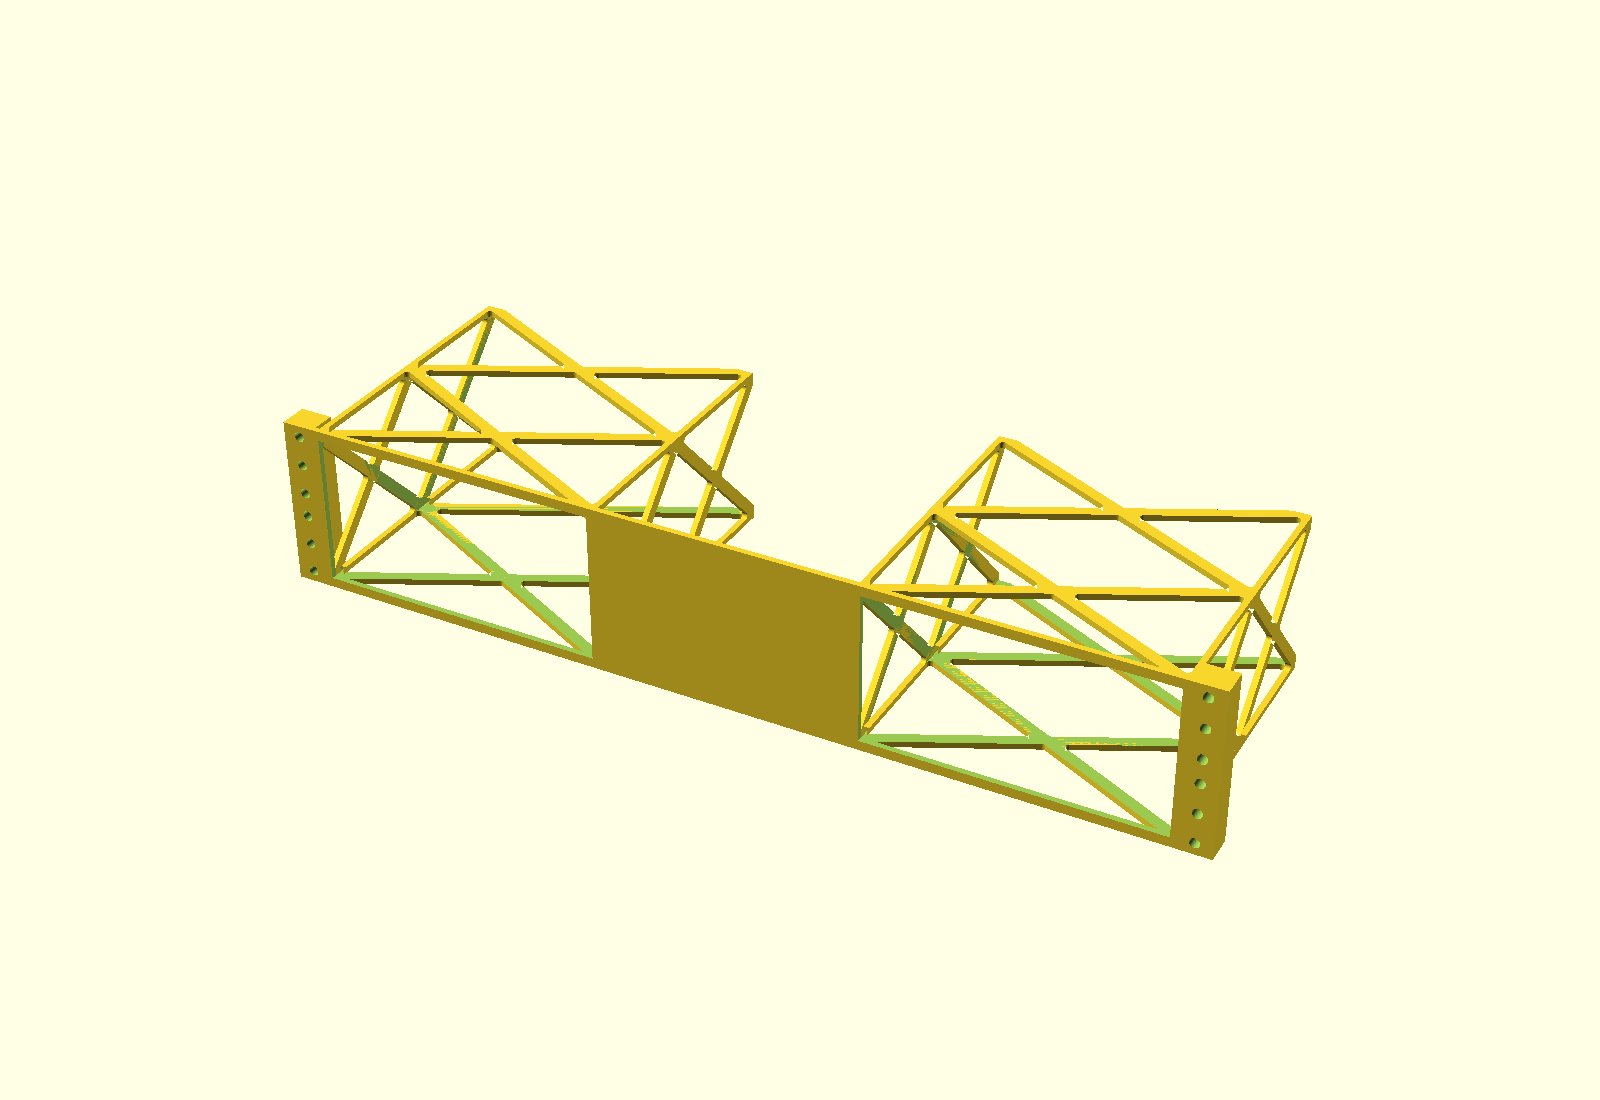
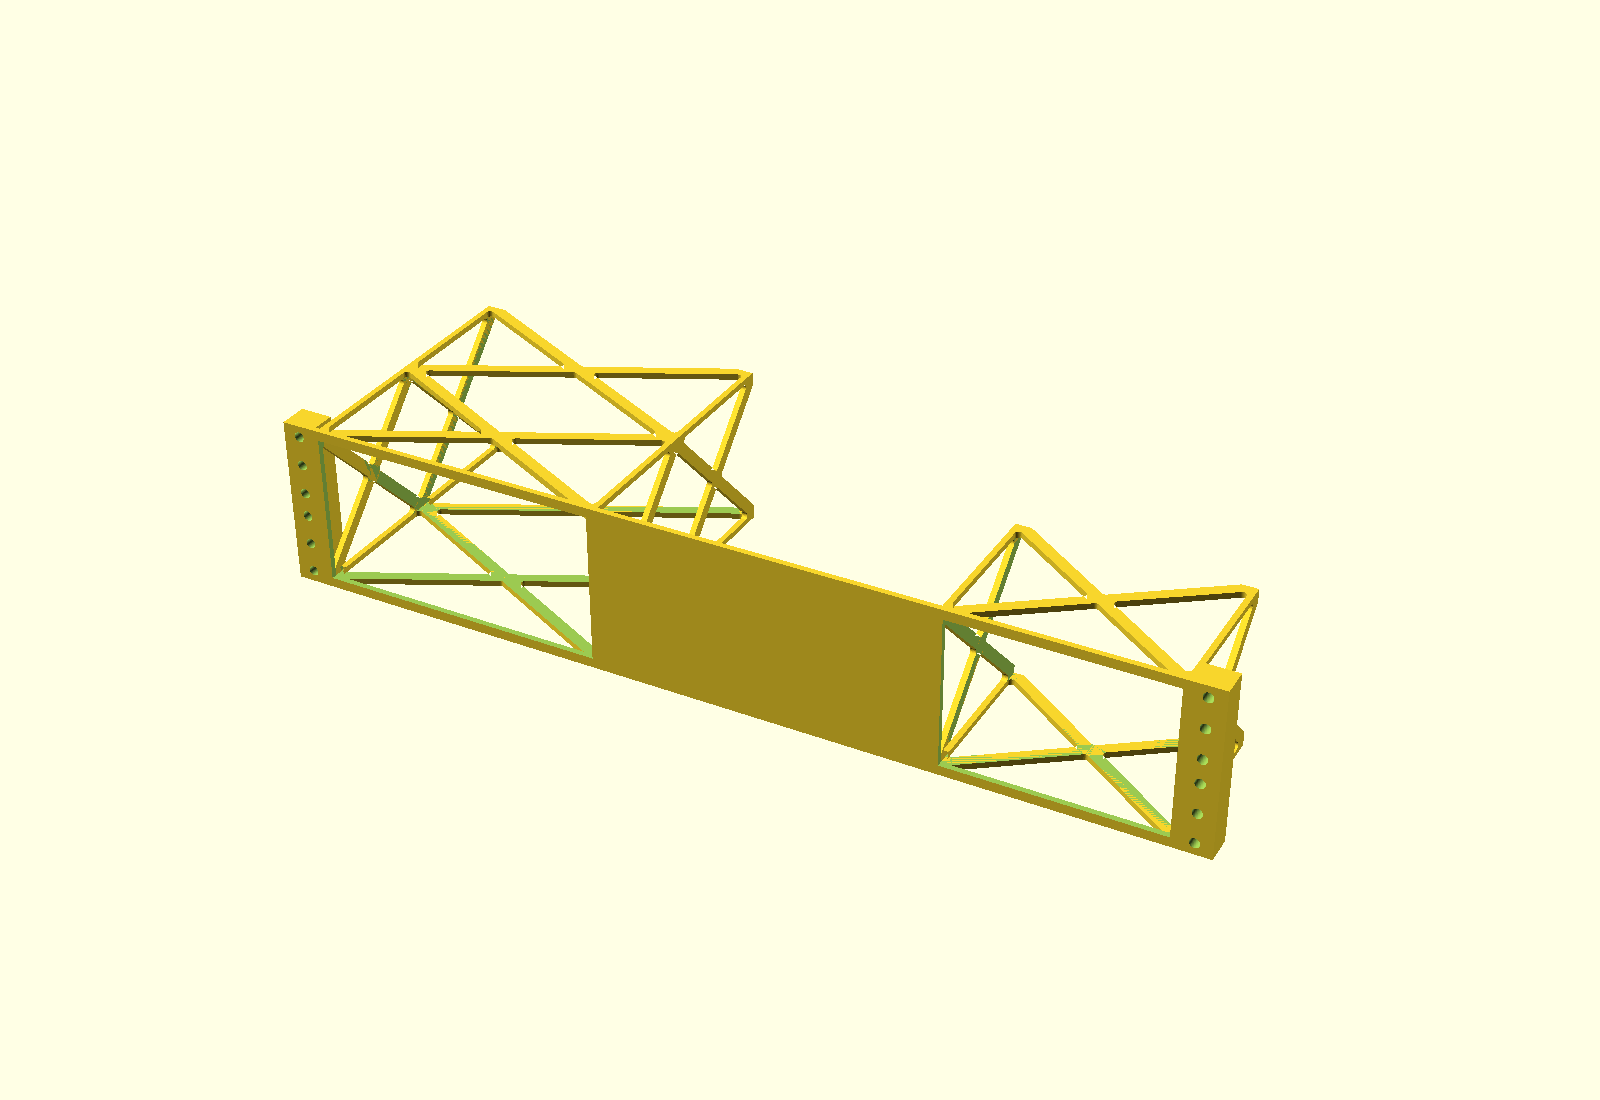
Build the tray to any size, and pair halves with different trays
- tray() and removable_top() now take the units, width and depth they should
  be built to. They default to the Customizer's values, so the default parts
  are unchanged (checked: identical volume to the last decimal), but a script
  can now place differently sized trays in differently sized slots
- The examples show the point of that: the paired scripts put a 150 x 150 mm
  slot on the rail side and a 110 x 80 mm one on the centre side, each with its
  own tray. Verified by placing each tray in its own module: the intersection
  is empty, and each tray comes out to its slot less the slide clearance
- assembly.scad takes its slot from variables, so -D units=1 now builds a
  matching 1U module and tray from one script, no temp file needed
- Add rear views of the paired examples, and 1U renders of the module, the pair
  and the tray (patch panel, cable slots, vented walls)
- README: the two halves need not match, how tray() takes a size, and how to
  render a rear view

Changed region(s): [[0.5312, 0.4018, 0.8438, 0.7418], [0.7188, 0.7418, 0.75, 0.7727]]

diff --git a/README.md b/README.md
@@ -27,6 +27,11 @@ At the non-mounting edge each module has a pair of joiner tabs. The right hand's
 pair sits one thickness higher, so the two interleave into a four tab stack that
 a single vertical bolt passes through, tying the halves together.
 
+Because a module is really just a slot, the two halves need not match. Each takes
+its own `tray_width` and `tray_depth`, so a wide deep tray and a narrow shallow
+one can sit side by side in the same rack space — the paired examples below do
+exactly that.
+
 ## Module inputs (`ashrack.scad`)
 
 | Input | Meaning | Default |
@@ -81,8 +86,9 @@ Keep cut-outs clear of the handles: each handle takes roughly `HANDLE_INSET`
 
 ## Examples
 
-Everything below is these files with the settings noted. The two scripts in
-`examples/` show how the parts go together.
+Everything below is these files with the settings noted. The three scripts in
+`examples/` show how the parts go together: one for a pair of modules, one for a
+module with its tray, and one for both halves with their trays.
 
 ### Module
 
@@ -92,12 +98,21 @@ Everything below is these files with the settings noted. The two scripts in
 | **Left hand**, the default: mounting ear with the rack screw holes, skeleton tray frame behind the panel | **Right hand**, `side = "right"`. The same model mirrored, so there is no second file |
 | ![Blank panel](examples/module-blank.png) | ![4U module, one hole per unit](examples/module-4u.png) |
 | `tray_width = 0`: a **blank panel**, no slot and no frame at all | `module_units = 4` with `screw_holes = 1`: one centre hole per unit |
+| ![1U module](examples/module-1u.png) | ![Two 1U halves joined](examples/module-pair-1u.png) |
+| `module_units = 1`: a single unit tall | The pair again at 1U, still with two different slot sizes |
 
 ![Two halves joined](examples/module-pair.png)
 
 *Two halves butted at the centre of the rack. The panels meet flush, and the
 joiner tabs interleave into one stack for a single vertical bolt — see
 `examples/module-pair.scad`.*
+
+![The same two halves from behind](examples/module-pair-back.png)
+
+*The same pair from behind, where you can see each half is its own slot: 150 x
+150 mm on the rail side, 110 x 80 mm on the centre side. Nothing ties the two
+sizes together — `examples/module-pair-1u-back.png` shows the same pair at 1U, and
+`examples/pair-assembly-back.png` the same idea with trays in place.*
 
 ### Tray
 
@@ -109,6 +124,10 @@ joiner tabs interleave into one stack for a single vertical bolt — see
 | `handle_sides = "both"`, `handle_type = "loop"`: half donut pulls | The same sides with `handle_type = "knob"` |
 | ![Body for a removable top](examples/tray-no-top.png) | ![The removable top on its own](examples/tray-top.png) |
 | `top_removable = true`: the body, walls stopping short with screw bosses in the corners | `part = "top"`: the top prints as its own part, with countersunk screw holes |
+| ![1U tray](examples/tray-1u.png) | ![1U tray, every wall slitted](examples/tray-1u-vented.png) |
+| `module_units = 1`: a shallow tray, but `tray_depth` still sets how far back it reaches | All three wall styles set to `"slits"` |
+| ![1U patch panel tray](examples/tray-1u-patch.png) | ![1U tray with cable slots](examples/tray-1u-slots.png) |
+| A patch panel front: four ethernet openings and an LED, with solid walls and PCB mounts behind | Three stadium openings, from the optional sixth cut-out value that rounds a rectangle's corners |
 
 ![Tray with cut-outs, mounts and handles](examples/tray-fitted.png)
 
@@ -122,6 +141,20 @@ handles on both sides.*
 
 *`examples/assembly.scad`: the module, with the tray placed by `tray_position()`
 so it runs exactly where it slides.*
+
+![Both halves with their own trays](examples/pair-assembly.png)
+
+*Both halves at once, each with a tray built to its own slot: 150 x 150 mm on the
+left, 110 x 80 mm on the right. The right half and its tray are the same models
+mirrored, so the tray runs into the slot from the other side.*
+
+![The same pair of assemblies from behind](examples/pair-assembly-back.png)
+
+*From behind: the two trays side by side, each sized to the slot holding it.*
+
+![A 1U module with its tray](examples/assembly-1u.png)
+
+*The same assembly at `module_units = 1`, module and tray together.*
 
 ## Rendering
 
@@ -143,6 +176,25 @@ translate(tray_position(20)) tray();
 The tray is built to the module's opening less a `TRAY_SLIDE_CLEARANCE`, so that
 placement leaves 0.25 mm per side. If your printer needs more room, that one
 constant is the knob.
+
+`tray()` also takes the size it should be built to, so one script can make any
+number of differently sized trays:
+
+```scad
+// tray(units, width, depth) — the same numbers the module was built with
+tray();                            // the Customizer's tray, 2U x 150 x 150
+tray(units = 1, width = 110);      // 1U, 110 wide, 150 deep
+tray(width = 110, depth = 80);     // 2U, 110 wide, 80 deep
+```
+
+The same goes for `removable_top()`, so a body and its own top always match.
+
+To see the back of a part, render it from the other side by turning the camera
+to the opposite azimuth:
+
+```
+openscad -o back.png --camera=0,0,0,58,0,208,0 --projection=p examples/pair-assembly.scad
+```
 
 ## Printing
 
